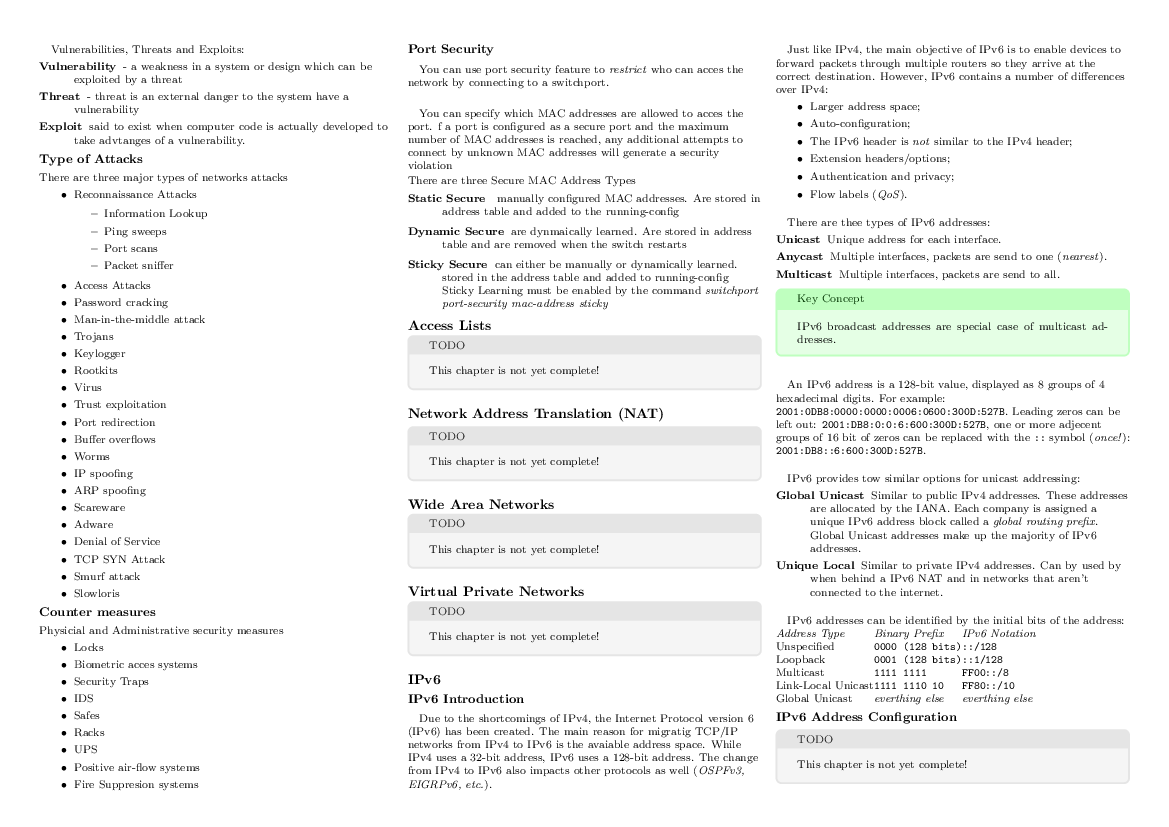
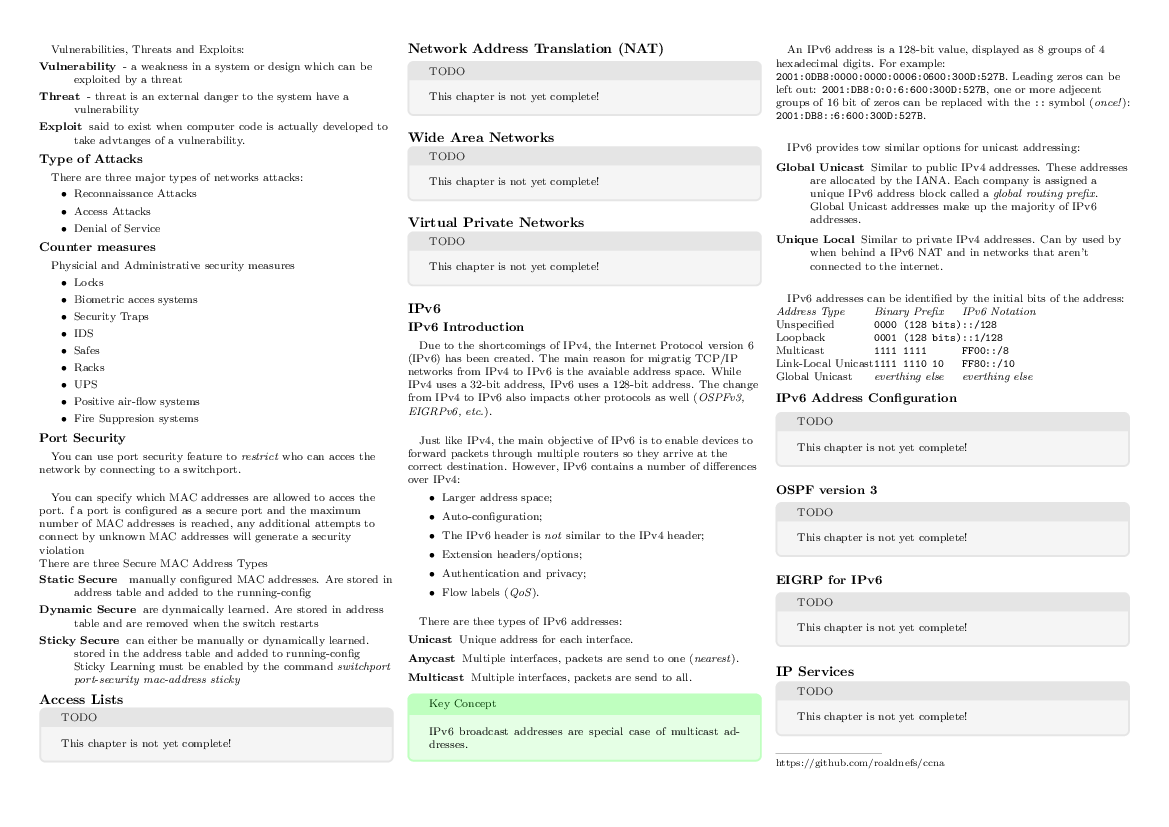
Updated Network Security chapter

Changed region(s): [[0.0308, 0.0302, 0.9855, 0.9674]]

diff --git a/summary.tex b/summary.tex
@@ -302,36 +302,15 @@ Vulnerabilities, Threats and Exploits:
 \end{description}
 
 \subsubsection{Type of Attacks}
-There are three major types of networks attacks
+\paragraph{}
+There are three major types of networks attacks:
 \begin{itemize}
 	\item  Reconnaissance Attacks
-	\begin{itemize}
-		\item Information Lookup
-		\item Ping sweeps
-		\item Port scans
-		\item Packet sniffer
-	\end{itemize}
 	\item  Access Attacks
-		\item Password cracking
-		\item Man-in-the-middle attack
-		\item Trojans
-		\item Keylogger
-		\item Rootkits
-		\item Virus
-		\item Trust exploitation
-		\item Port redirection
-		\item Buffer overflows
-		\item Worms
-		\item IP spoofing
-		\item ARP spoofing
-		\item Scareware
-		\item Adware
 	\item  Denial of Service
-		\item TCP SYN Attack
-		\item Smurf attack
-		\item Slowloris
 \end{itemize}
 \subsubsection{Counter measures}
+\paragraph{}
 Physicial and Administrative security measures
 \begin{itemize}
 	\item Locks
